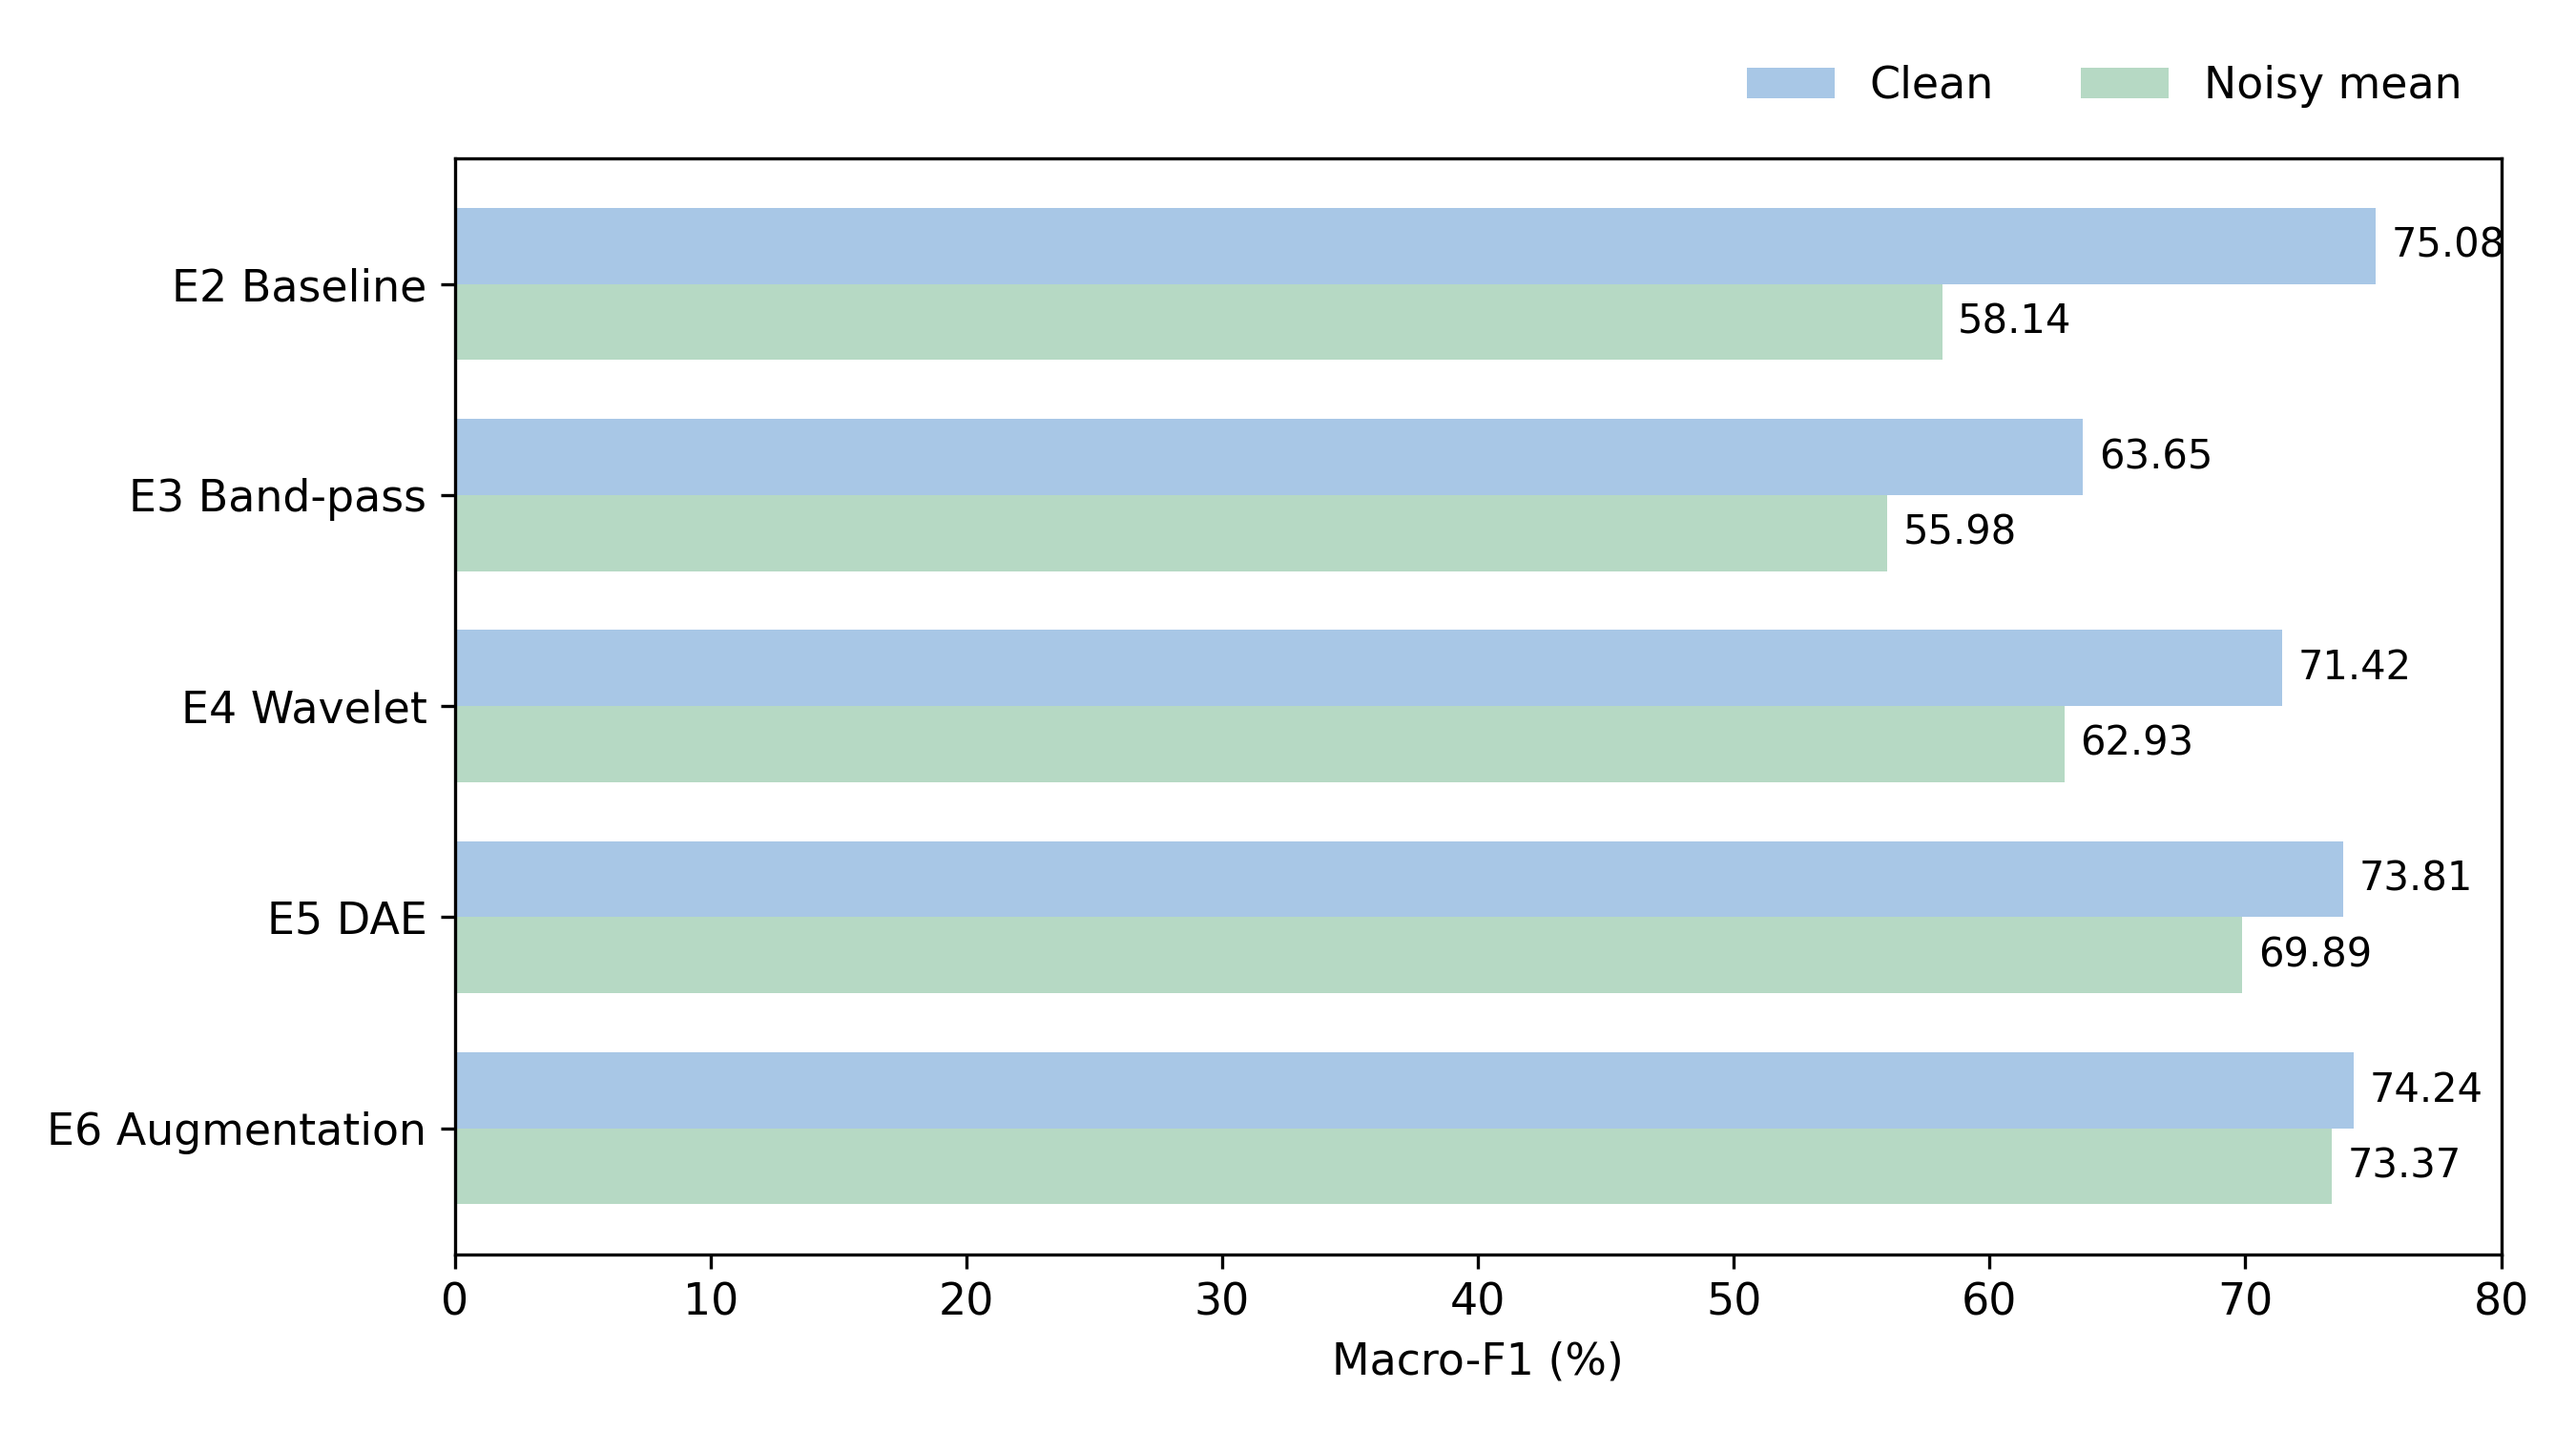
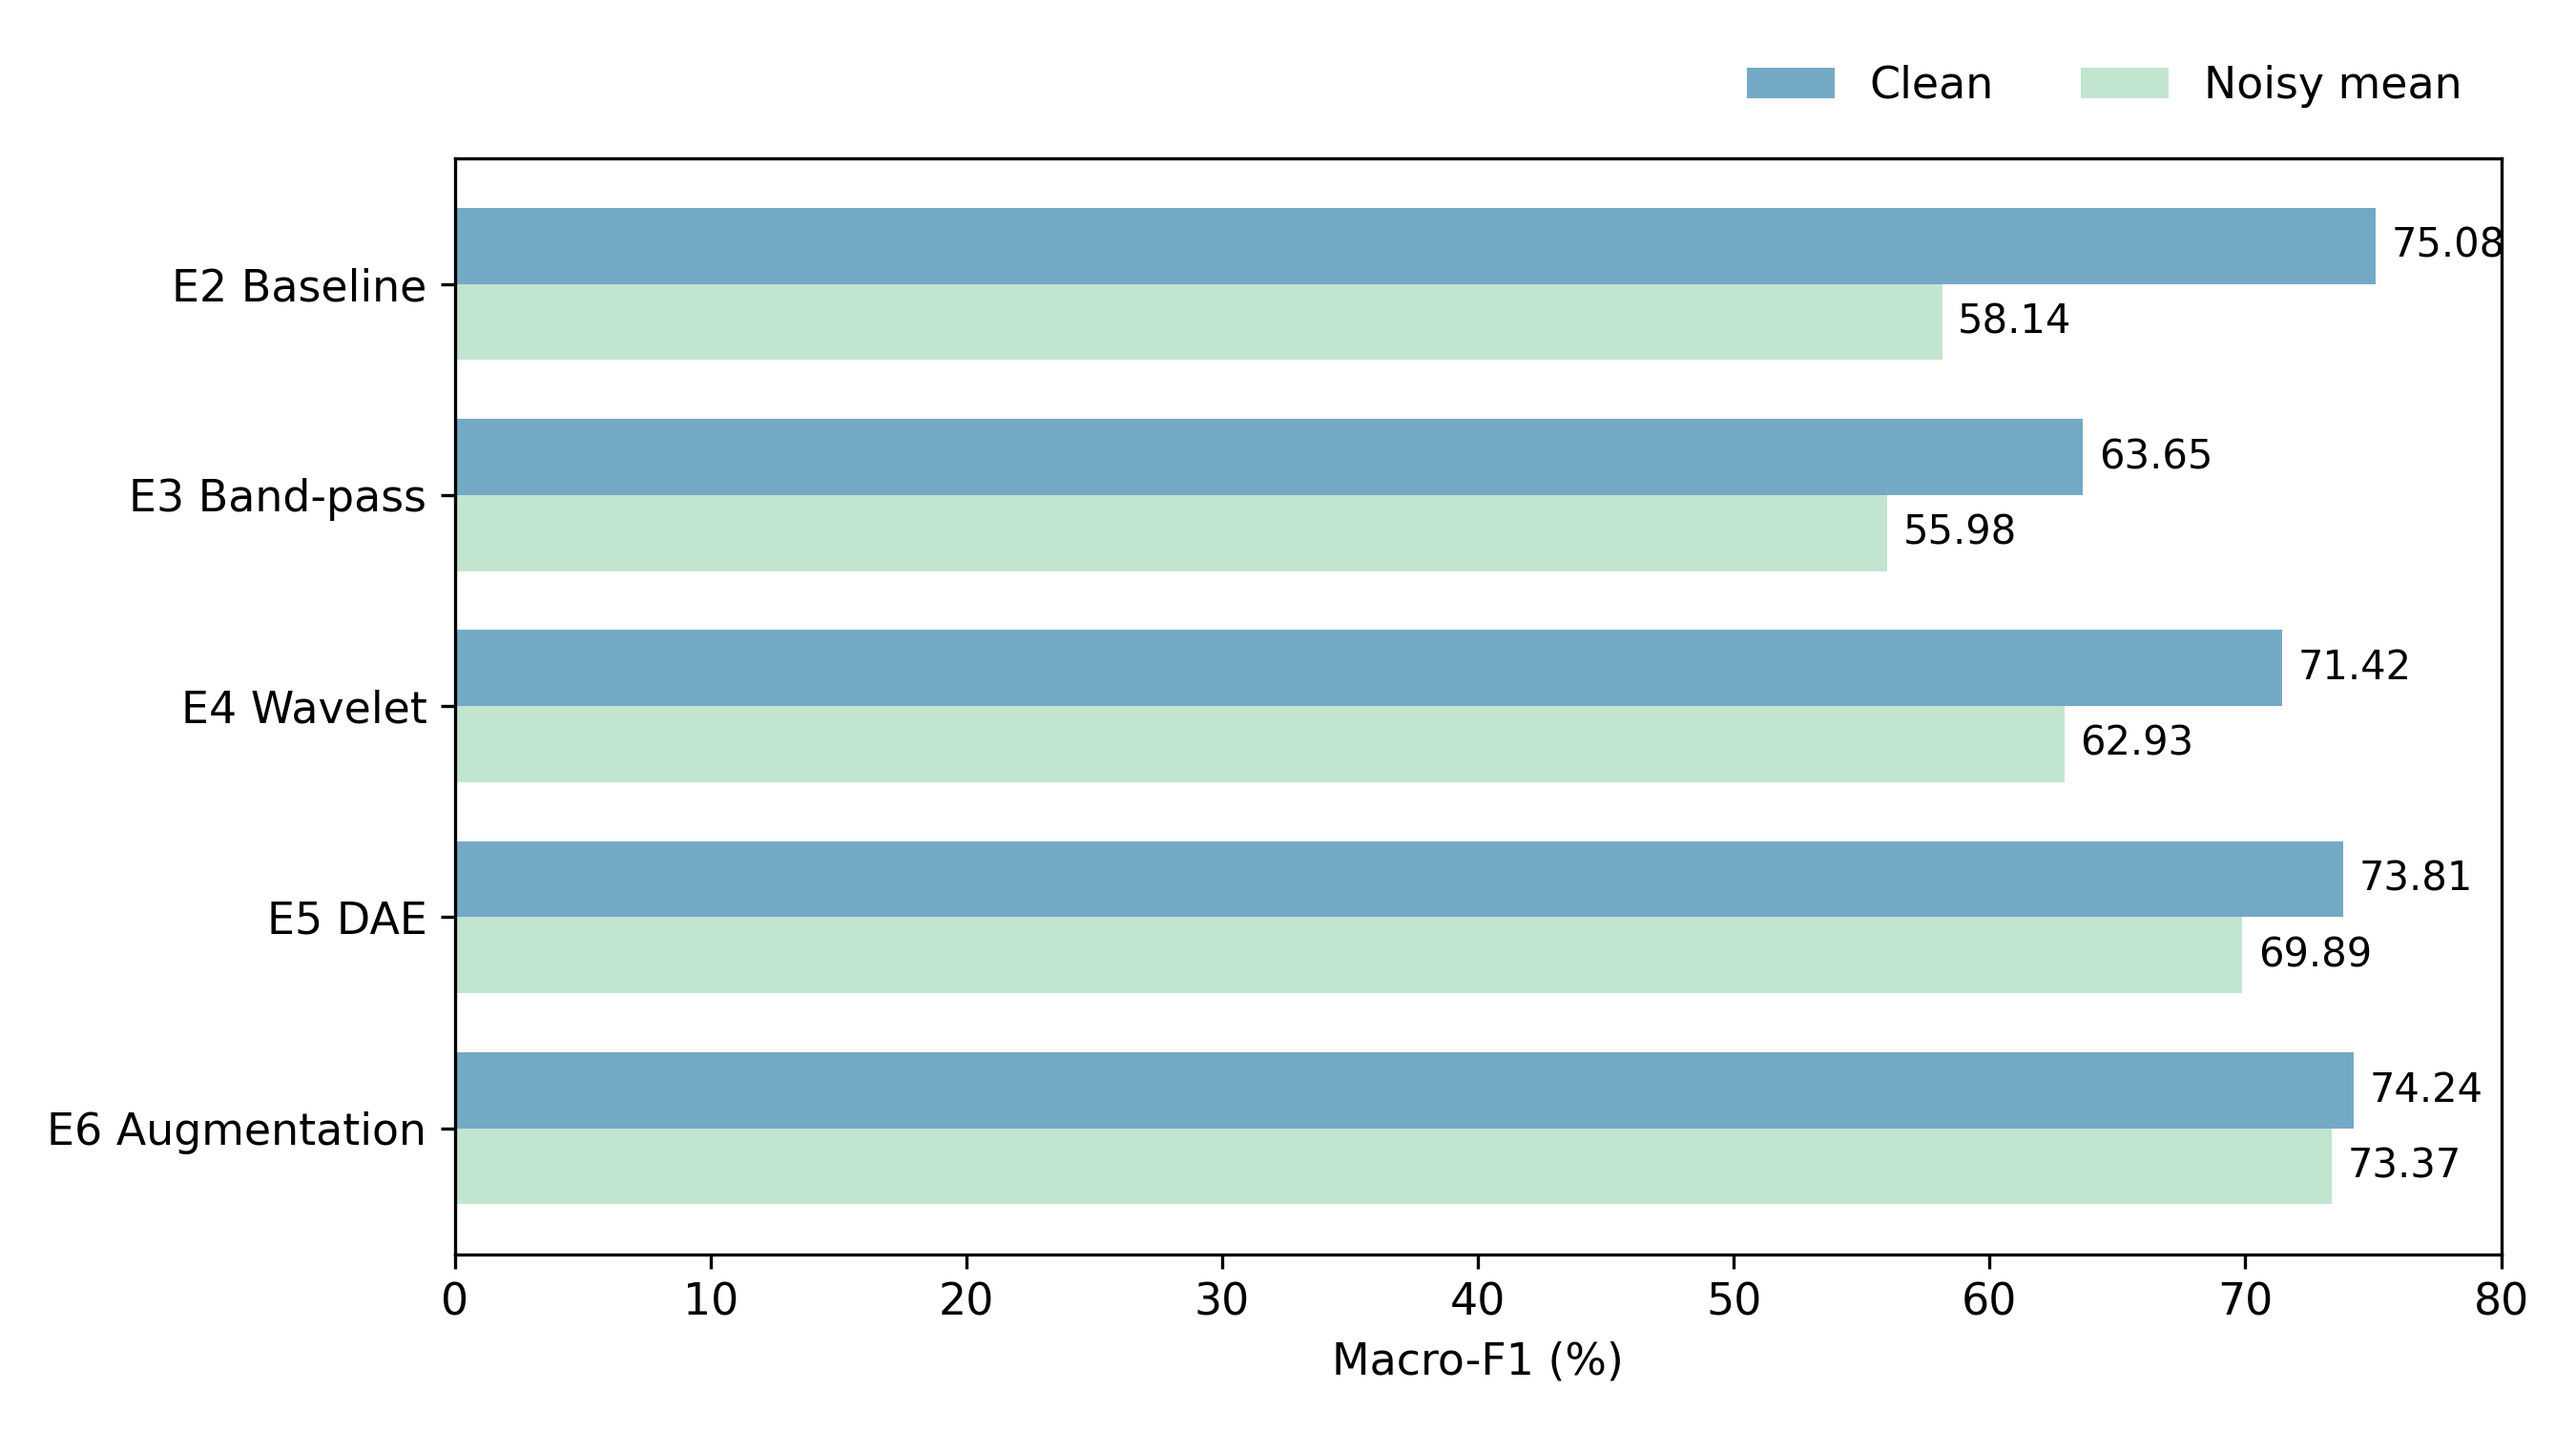
Apply requested blue and mint palette to robustness figures

diff --git a/scripts/plot_robustness_comparison.py b/scripts/plot_robustness_comparison.py
@@ -42,7 +42,7 @@ def main():
  plt.rcParams.update({'font.family':'DejaVu Sans','font.size':11,'svg.fonttype':'none','figure.facecolor':'white','axes.facecolor':'white'})
  names=['E2 Baseline','E3 Band-pass','E4 Wavelet','E5 DAE','E6 Augmentation']
  c=np.array([r['clean_mean'] for r in overall]);n=np.array([r['noisy_mean'] for r in overall]);y=np.arange(5)
- blue='#A8C7E6';green='#B6D9C4'
+ blue='#74A9C5';green='#C2E5CF'
  fig,ax=plt.subplots(figsize=(9,5))
  bars1=ax.barh(y-.18,c,.36,label='Clean',color=blue)
  bars2=ax.barh(y+.18,n,.36,label='Noisy mean',color=green)
@@ -70,7 +70,7 @@ def main():
 
 Generated from formal archived test CSVs, not rounded PPT labels. No training or inference.
 
-- Style: white background, pastel bars, two-decimal value labels. Clean/noisy comparison uses horizontal grouped bars; reconstruction/classification comparison uses two basic bar charts.
+- Style: white background, blue #74A9C5 and green #C2E5CF bars, two-decimal value labels. Clean/noisy comparison uses horizontal grouped bars; reconstruction/classification comparison uses two basic bar charts.
 - Clean/noisy comparison: clean Macro-F1 and equally weighted nine-noise Macro-F1. Average nine conditions within each fold, then average five folds. CSV SD is sample SD over five fold values. E3 uses validation-selected per-fold filters.
 - Reconstruction/classification comparison: Gaussian_Medium only. Average per-fold reported RMSE and Macro-F1 for E4 and E5. Both methods use corresponding frozen E1 classifiers. The reported RMSE is averaged from archived fold metrics, not recomputed from pooled waveforms.
 - `clean_noisy_per_fold.csv` supports later paired descriptive analysis. No statistical significance is implied and folds are not independent repetitions.

diff --git a/reports/figures/robustness_comparison/README.md b/reports/figures/robustness_comparison/README.md
@@ -2,7 +2,7 @@
 
 Generated from formal archived test CSVs, not rounded PPT labels. No training or inference.
 
-- Style: white background, pastel bars, two-decimal value labels. Clean/noisy comparison uses horizontal grouped bars; reconstruction/classification comparison uses two basic bar charts.
+- Style: white background, blue #74A9C5 and green #C2E5CF bars, two-decimal value labels. Clean/noisy comparison uses horizontal grouped bars; reconstruction/classification comparison uses two basic bar charts.
 - Clean/noisy comparison: clean Macro-F1 and equally weighted nine-noise Macro-F1. Average nine conditions within each fold, then average five folds. CSV SD is sample SD over five fold values. E3 uses validation-selected per-fold filters.
 - Reconstruction/classification comparison: Gaussian_Medium only. Average per-fold reported RMSE and Macro-F1 for E4 and E5. Both methods use corresponding frozen E1 classifiers. The reported RMSE is averaged from archived fold metrics, not recomputed from pooled waveforms.
 - `clean_noisy_per_fold.csv` supports later paired descriptive analysis. No statistical significance is implied and folds are not independent repetitions.
